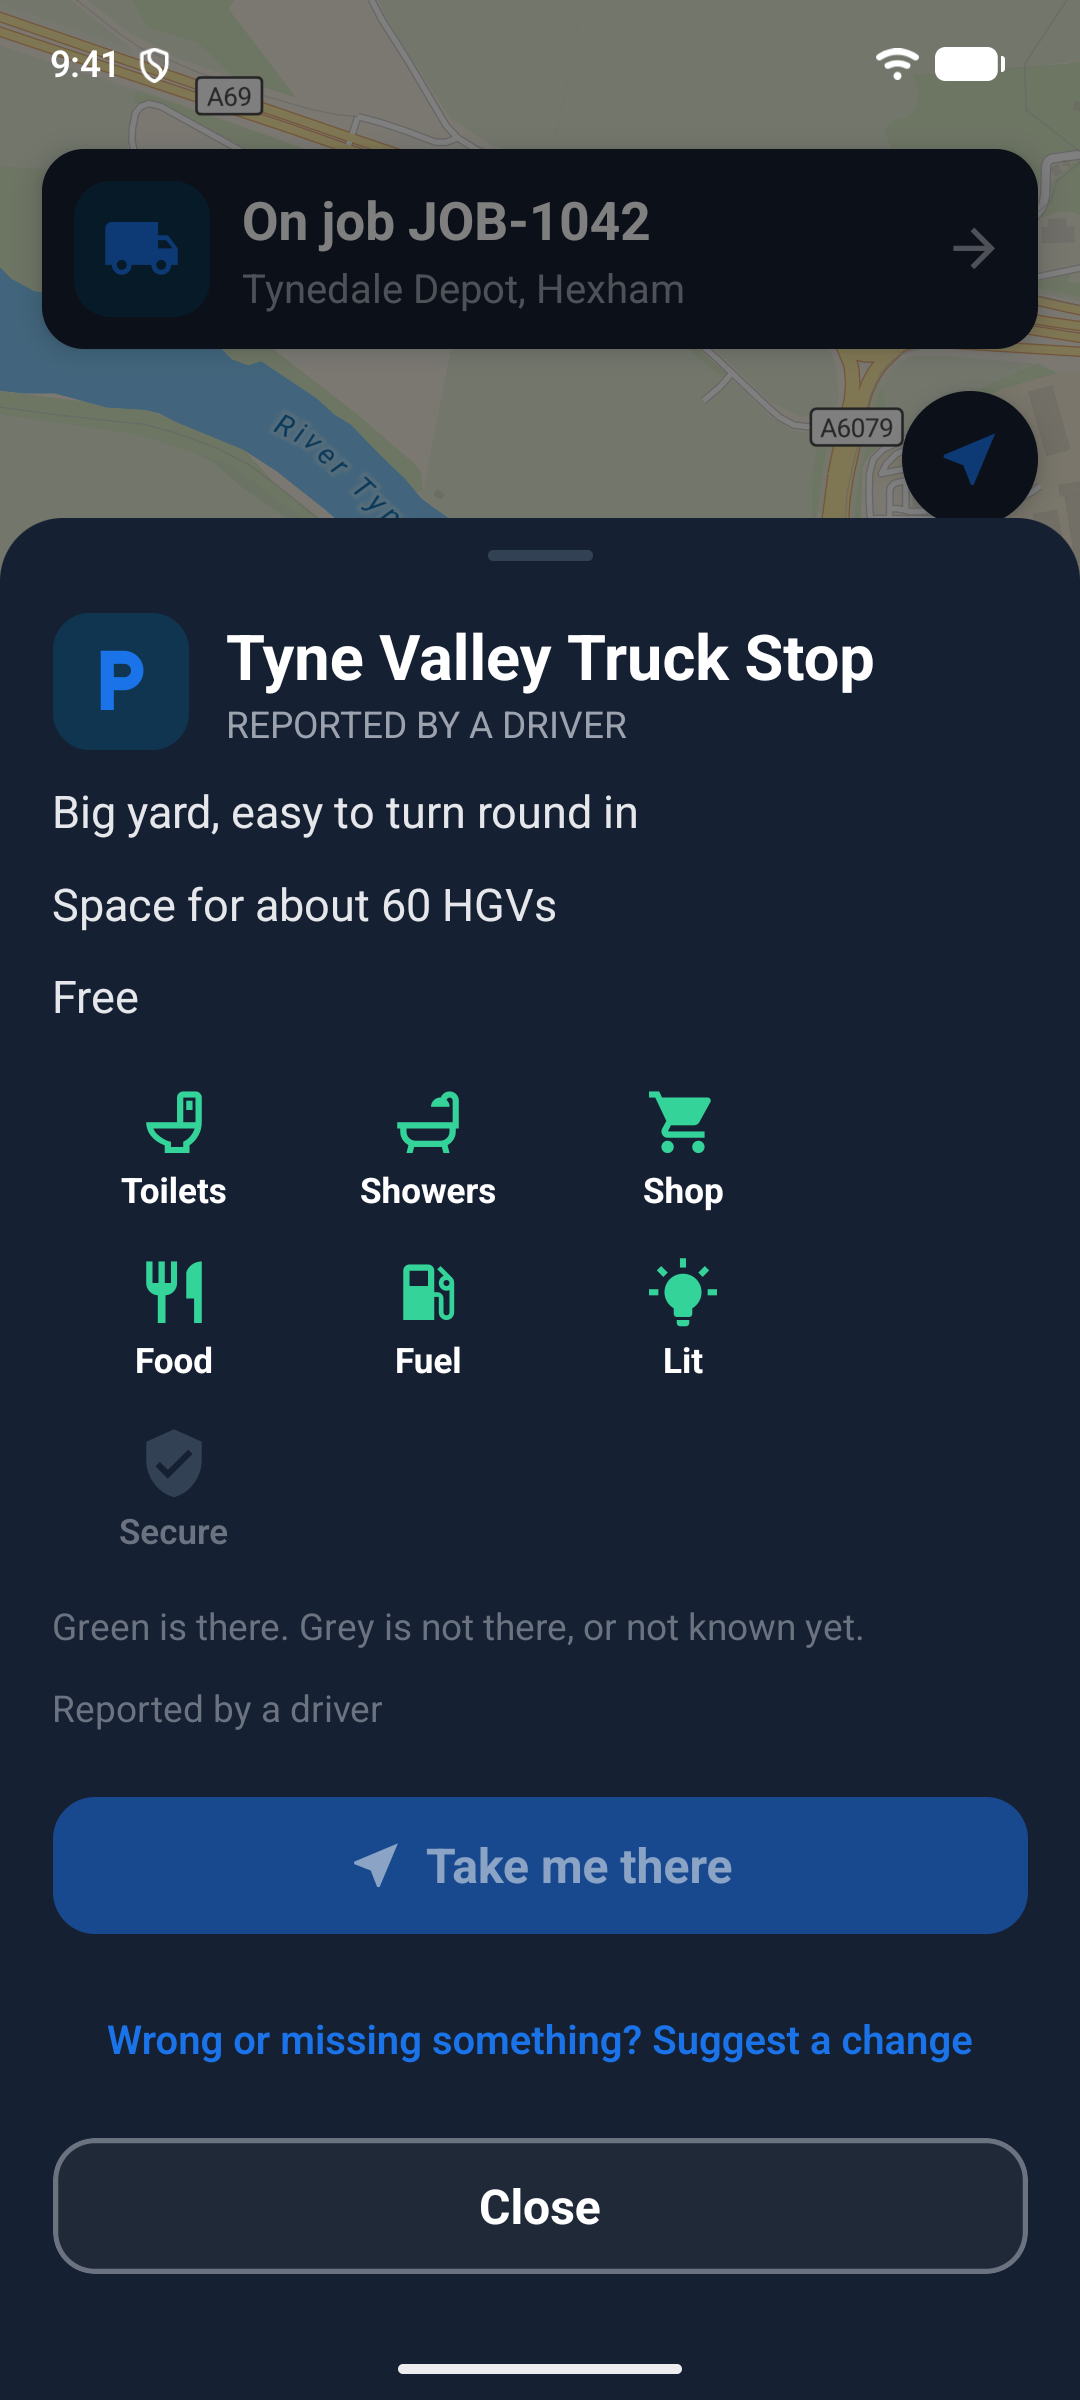
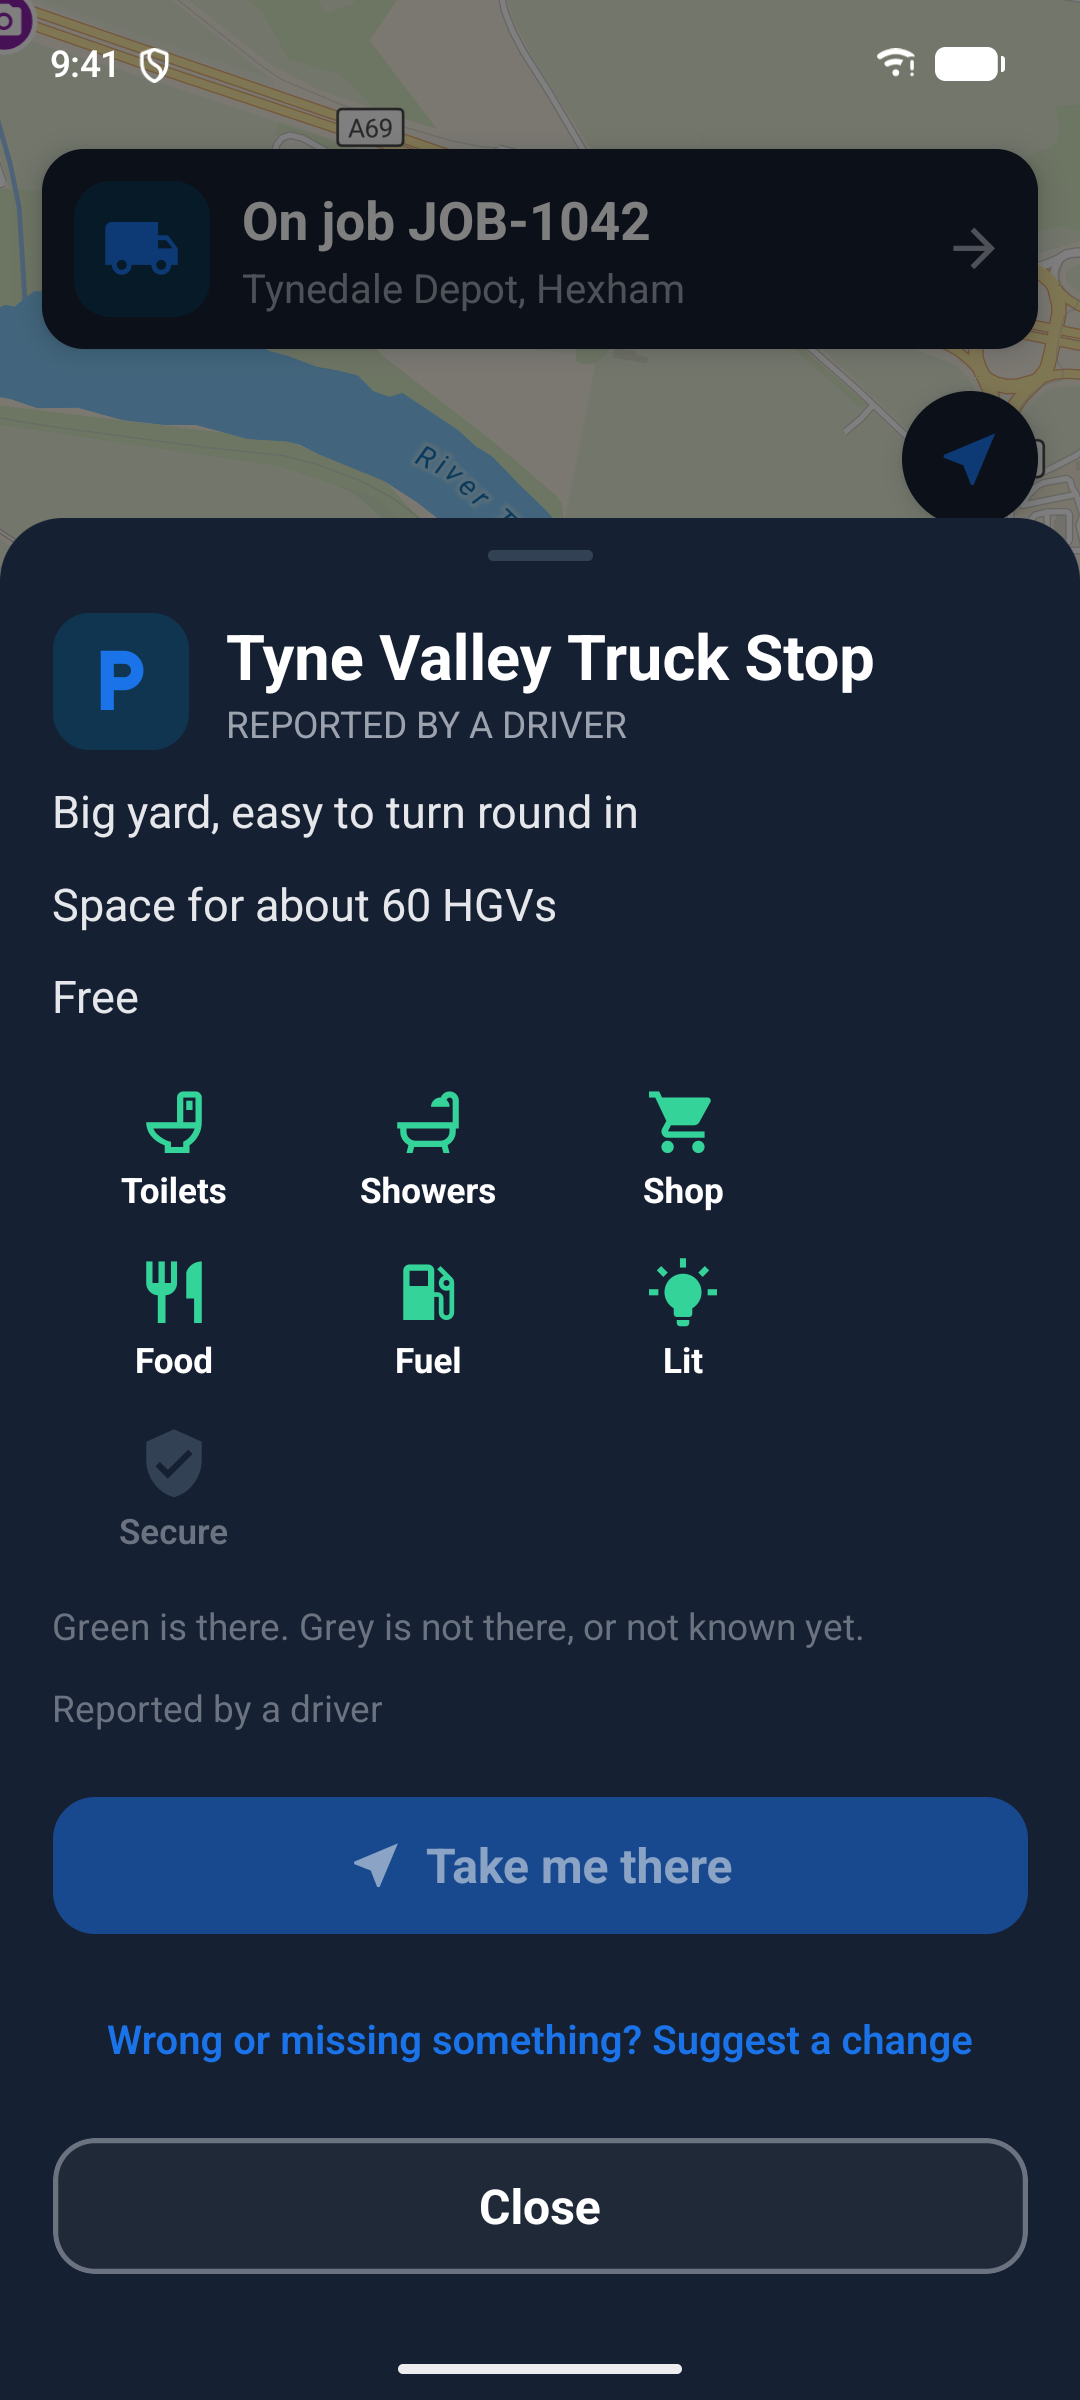
Retake the Play screenshots from current main (compass off, Keep button on one line) (#323)
All nine raw shots retaken on the emulator running main at c462742; framed set rebuilt. 06-faster now shows the single-line Keep button and a 7-minute saving. README and listing doc say to leave out 08-job when uploading.

diff --git a/apps/driver-app/store-assets/README.md b/apps/driver-app/store-assets/README.md
@@ -3,18 +3,20 @@
 - `play-icon-512.png`, `play-feature-graphic-1024x500.png`: Google Play graphics.
 - `raw/`: full-size driver-app screenshots taken on a local stack with dummy data (1080x2400, Pixel 6 emulator, dark theme, 09:41).
 - `../../dashboard/store-assets/raw/`: the same for the staff portal (1440x900).
-- `framed/`: the nine raw screenshots framed with a headline, 1080 x 1920, ready for Google Play (it takes up to eight, so leave out the one you like least; the file numbers are the order shown). Apple needs its own sizes (not made yet). `scripts/make-framed-screenshots.ps1` rebuilds them.
+- `framed/`: the nine raw screenshots framed with a headline, 1080 x 1920, ready for Google Play. It takes up to eight, so **leave out `08-job.png`** (the company-job screen: the least about driving, and its bottom buttons are cut off by the frame); the file numbers are the order shown, and the first three are what search shows. Apple needs its own sizes (not made yet). `scripts/make-framed-screenshots.ps1` rebuilds them.
 - `scripts/make-graphics.ps1`: rebuilds the icon and feature graphic.
 - `scripts/make-web-images.ps1`: crops and compresses the raw screenshots into `sites/landing/img/` as JPEGs. Then run `sites/make-webp.ps1`, which turns them into the WebP files the landing page serves and removes the JPEGs. Not re-run since the 2026-11-04 retake, so the landing page still shows the older screens.
 
 All screenshots use made-up data (fictional firm, example emails). Scripts are Windows PowerShell and expect the repo at `E:\projects\wagonwise`.
 
-## Retaking them (last done 2026-11-04)
+## Retaking them (last done 2026-11-04, from `main` at `c462742`, after the compass and Keep-button fixes)
+
+Retake whenever the app's screens change: the shots show whatever JavaScript Metro serves, so run Metro from a checkout of current `main`, not an old branch. Faster-route offer, in practice: seed the congestion report, plan Hexham to Gateshead from the A69 east of Hexham, start the trip, step the GPS about 40 points along the road, then take screenshots every few seconds for a couple of minutes (the card appears about a minute in, then folds to a small chip and reappears; tap nothing). Expire the congestion report before the trip shot so the card is not in it.
 
 Raw file to screen: `00` home map with the fuel pins, `01` trip mid-route, `02` route options, `03` hazards on the route, `04` parking card, `05` faster-route offer, `06` report a hazard, `08` job, `09` nearby fuel. (`03a-hazard-ahead-raw.png` is an older extra that is not framed and was not retaken.)
 
 1. **Stack.** `pnpm db:up` and `pnpm db:migrate` (Postgres), Valhalla running (`docker compose -f infra/docker/compose.yml --profile valhalla up -d valhalla`), then core (`pnpm --filter @wagonwise/core dev`) and the driver BFF (`pnpm --filter @wagonwise/driver-bff dev`). No keys are needed; leave the fuel, closures and traffic keys unset so core does not fetch real data.
-2. **Data** (all made up, put in by SQL, none of it in the repo): a driver `shots@example.com` with a vehicle profile "Artic 44 t" and JOB-1042 (Tynedale Depot, Hexham, to a Gateshead centre); nine fictional fuel stations with made-up diesel and petrol prices in `fuelprices.stations` and `fuelprices.prices` (names such as "Riverside Fuels", ids `shot-1` to `shot-9`, 145.9 to 153.5 p, reported 1 to 30 hours ago); a few hazards (roadworks, a tight bend, a 4.6 m low bridge) along the A69; one 30-minute congestion report on the route ahead of the vehicle (this is what makes the faster-route offer appear); and one driver-reported parking spot, "Tyne Valley Truck Stop" in Hexham, with every facility but Secure. A made-up row in `closures.closures` puts a road-closure marker on the A69 if you want one in a shot. Expire any other active hazards near the route first, or the route detours around them.
+2. **Data** (all made up, put in by SQL, none of it in the repo): a driver `shots@example.com` with a vehicle profile "Artic 44 t" and JOB-1042 (Tynedale Depot, Hexham, to a Gateshead centre); nine fictional fuel stations with made-up diesel and petrol prices in `fuelprices.stations` and `fuelprices.prices` (names such as "Riverside Fuels", ids `shot-1` to `shot-9`, 145.9 to 153.5 p, reported 1 to 30 hours ago); a few hazards (roadworks, a tight bend, a 4.6 m low bridge) along the A69; one 7-minute congestion report on the route ahead of the vehicle (at `-1.930879 54.973789`; this is what makes the faster-route offer appear, and a bigger wait gives an implausible "saves 30 minutes"; the offer needs a saving of at least 5 minutes and 10%); and one driver-reported parking spot, "Tyne Valley Truck Stop" in Hexham, with every facility but Secure. A made-up row in `closures.closures` puts a road-closure marker on the A69 if you want one in a shot. Expire any other active hazards near the route first, or the route detours around them.
 3. **App.** The app uses MapLibre native code, so it needs a development build (installed on the `Pixel_6` AVD as `com.wagonwise.driverapp`), not Expo Go. From `apps/driver-app` run `npx expo start --dev-client`, then `adb reverse tcp:8081 tcp:8081`, then open `exp+wagonwise-driver-app://expo-development-client/?url=http%3A%2F%2F10.0.2.2%3A8081` on the emulator. Turn off the dev client's floating tools button (developer menu, Tools button off) and dismiss its first-run notice, or a grey gear sits over every shot. Sign in with the code core prints to its console, accept the privacy screen and skip the first-run walkthrough. Use the dark theme.
 4. **Clean phone.** Clock 09:41, full battery and wifi, no notifications: `adb shell settings put global sysui_demo_allowed 1`, then `adb shell am broadcast -a com.android.systemui.demo -e command clock -e hhmm 0941` (also `battery`, `network`, `notifications`; finish with `-e command exit`). Set the position with `adb emu geo fix <lon> <lat>` (Hexham is `-2.1040 54.9732`); for a trip, step the fix along the route's points a second apart so the app gets a heading.
 5. **Shoot.** `adb exec-out screencap -p > raw/<name>.png`, save over the files in `raw/`, run `scripts/make-framed-screenshots.ps1`, and look at every framed image for real names, plates, companies or addresses (labels and brand names that come from the map itself are fine), a stray dev-client button, and anything cut off.

diff --git a/docs/history/log.md b/docs/history/log.md
@@ -4,6 +4,7 @@ Dated changes since 16 October 2026. Open the top ~40 lines to see what changed 
 Older entries (September to 15 October 2026) are in `docs/history/log-archive.md`. `progress.md` has the current state: this
 file is for finding out when or why something changed. Add new entries at the top of the list.
 
+- 2026-11-04: **Play screenshots retaken from `main` after the compass and Keep-button fixes (#320, #322).** All nine raw shots in `apps/driver-app/store-assets/raw/` were retaken on the emulator running current `main` (dark theme, 09:41, made-up data), and `framed/` rebuilt. `06-faster.png` now has "Keep current route" on one line and reads "saves 7 minutes, 16 min instead of 23 min" (a 7-minute made-up congestion report; the 30-minute one looked implausible). No stray map compass in any shot. **Leave out `08-job.png`** when uploading (Play takes eight; the README and the listing doc say so). `08-job` came out identical to before. **Not checked:** the landing-page images (`sites/landing/img/`) are not re-made; break planning and a Fastest/Shortest pair were not shot (the route has one answer); the shots were looked at as framed PNGs, not on a Play listing preview.
 - 2026-11-04: **Driver app: "Keep current route" no longer wraps.** On the faster-route card (`components/faster-route-card.tsx`) the Switch and Keep buttons were equal halves, so "Keep current route" broke onto two lines with its text touching the border (seen in the Play screenshot). Keep now gets twice the width of Switch, with side padding and centred text. JavaScript only, so over the air. **Not checked:** on a phone or emulator (layout only; the unit tests do not measure text). The framed Play screenshot `06-faster.png` still shows the old wrapped button until it is retaken.
 - 2026-11-04: **Driver app: the map's built-in compass is off.** The owner could see a default map control behind our own buttons. The map component set no ornaments, so MapLibre's native compass showed top-right whenever the map was turned (heading-up navigation), under the round buttons. `compass={false}` on the map (`components/route-map.tsx`). **Left on, on purpose:** the logo and attribution button, which the map data's licence (OpenStreetMap, and the tile provider's terms) requires. **Trade-off:** with no compass a driver cannot tap to turn the map back to north; Recenter still puts the map back on the driver. JavaScript only, so over the air. **Not checked:** on a phone. The cause is a best guess from the code (no screenshot of the problem was seen); if something is still there, send a screenshot.
 - 2026-11-04: **First-run walkthrough (closed testers' last suggestion).** Four skippable screens (routes for your vehicle; hazards, spoken; parking, fuel and breaks; driving for a company) with Back, Next and Skip, dots, and "Planning aid, road signs and the law come first" on the last. `app/walkthrough.tsx`; the words are in `lib/walkthrough-steps.ts` (keep them to what is built, and no em dashes: a tester objected). **When it shows:** once per phone (`state/walkthrough-store.ts`, SecureStore key `wagonwise.walkthroughSeen`), from `index.tsx`'s gate **after** the privacy screen and **after** the resume-trip check, so a relaunch never puts the tour between a driver and a trip in progress. The gate waits (spinner) until the phone has said whether it was seen, so it is not flashed at anyone; an unreadable value counts as seen, so nobody is nagged on every launch. **Existing drivers see it once too**, on their next launch after the update (it is skippable); More has a "How it works" row to open it again. Skip and finish do the same thing (mark seen, go back through the gate). JavaScript only, so over the air on the `release` label; no store build. **Checked:** tests for the store, the steps, the screen (Next, Back, Skip, Get started) and the launch gate (map when seen, tour when unseen, waits while restoring, trip first, privacy screen first); whole driver-app suite (954), typecheck and lint. **Not checked:** on a phone (layout on a small screen, dark theme, large text sizes).

diff --git a/docs/play-store-listing.md b/docs/play-store-listing.md
@@ -210,9 +210,9 @@ needs at least two. Each gets a short headline when framed (suggested wording be
 Optional extras if there are slots left or Play asks for more: vehicle profiles (the dimensions form), saved places, and the
 weather warning badge.
 
-**Taken 2026-11-04** (`apps/driver-app/store-assets/`, how to redo them is in its README): the framed set in `framed/` is nine screens in
+**Taken and retaken 2026-11-04** (the retake is from `main` after the Keep-button and compass fixes; `apps/driver-app/store-assets/`, how to redo them is in its README): the framed set in `framed/` is nine screens in
 this order: home map (with fuel pins), trip, route options, hazards on the route, parking card, faster-route offer, report a hazard,
-a company job, and nearby fuel prices (new). Play takes eight, so leave one out; the first three show in search. They are not the
+a company job, and nearby fuel prices (new). Play takes eight, so **leave out `08-job.png`** (the company job); the first three show in search. They are not the
 table's eight: break planning and the route-options Fastest/Shortest pair were not shot (the route has one answer, "Fastest &
 Shortest"), and the voice screen is the report-a-hazard sheet.
 
